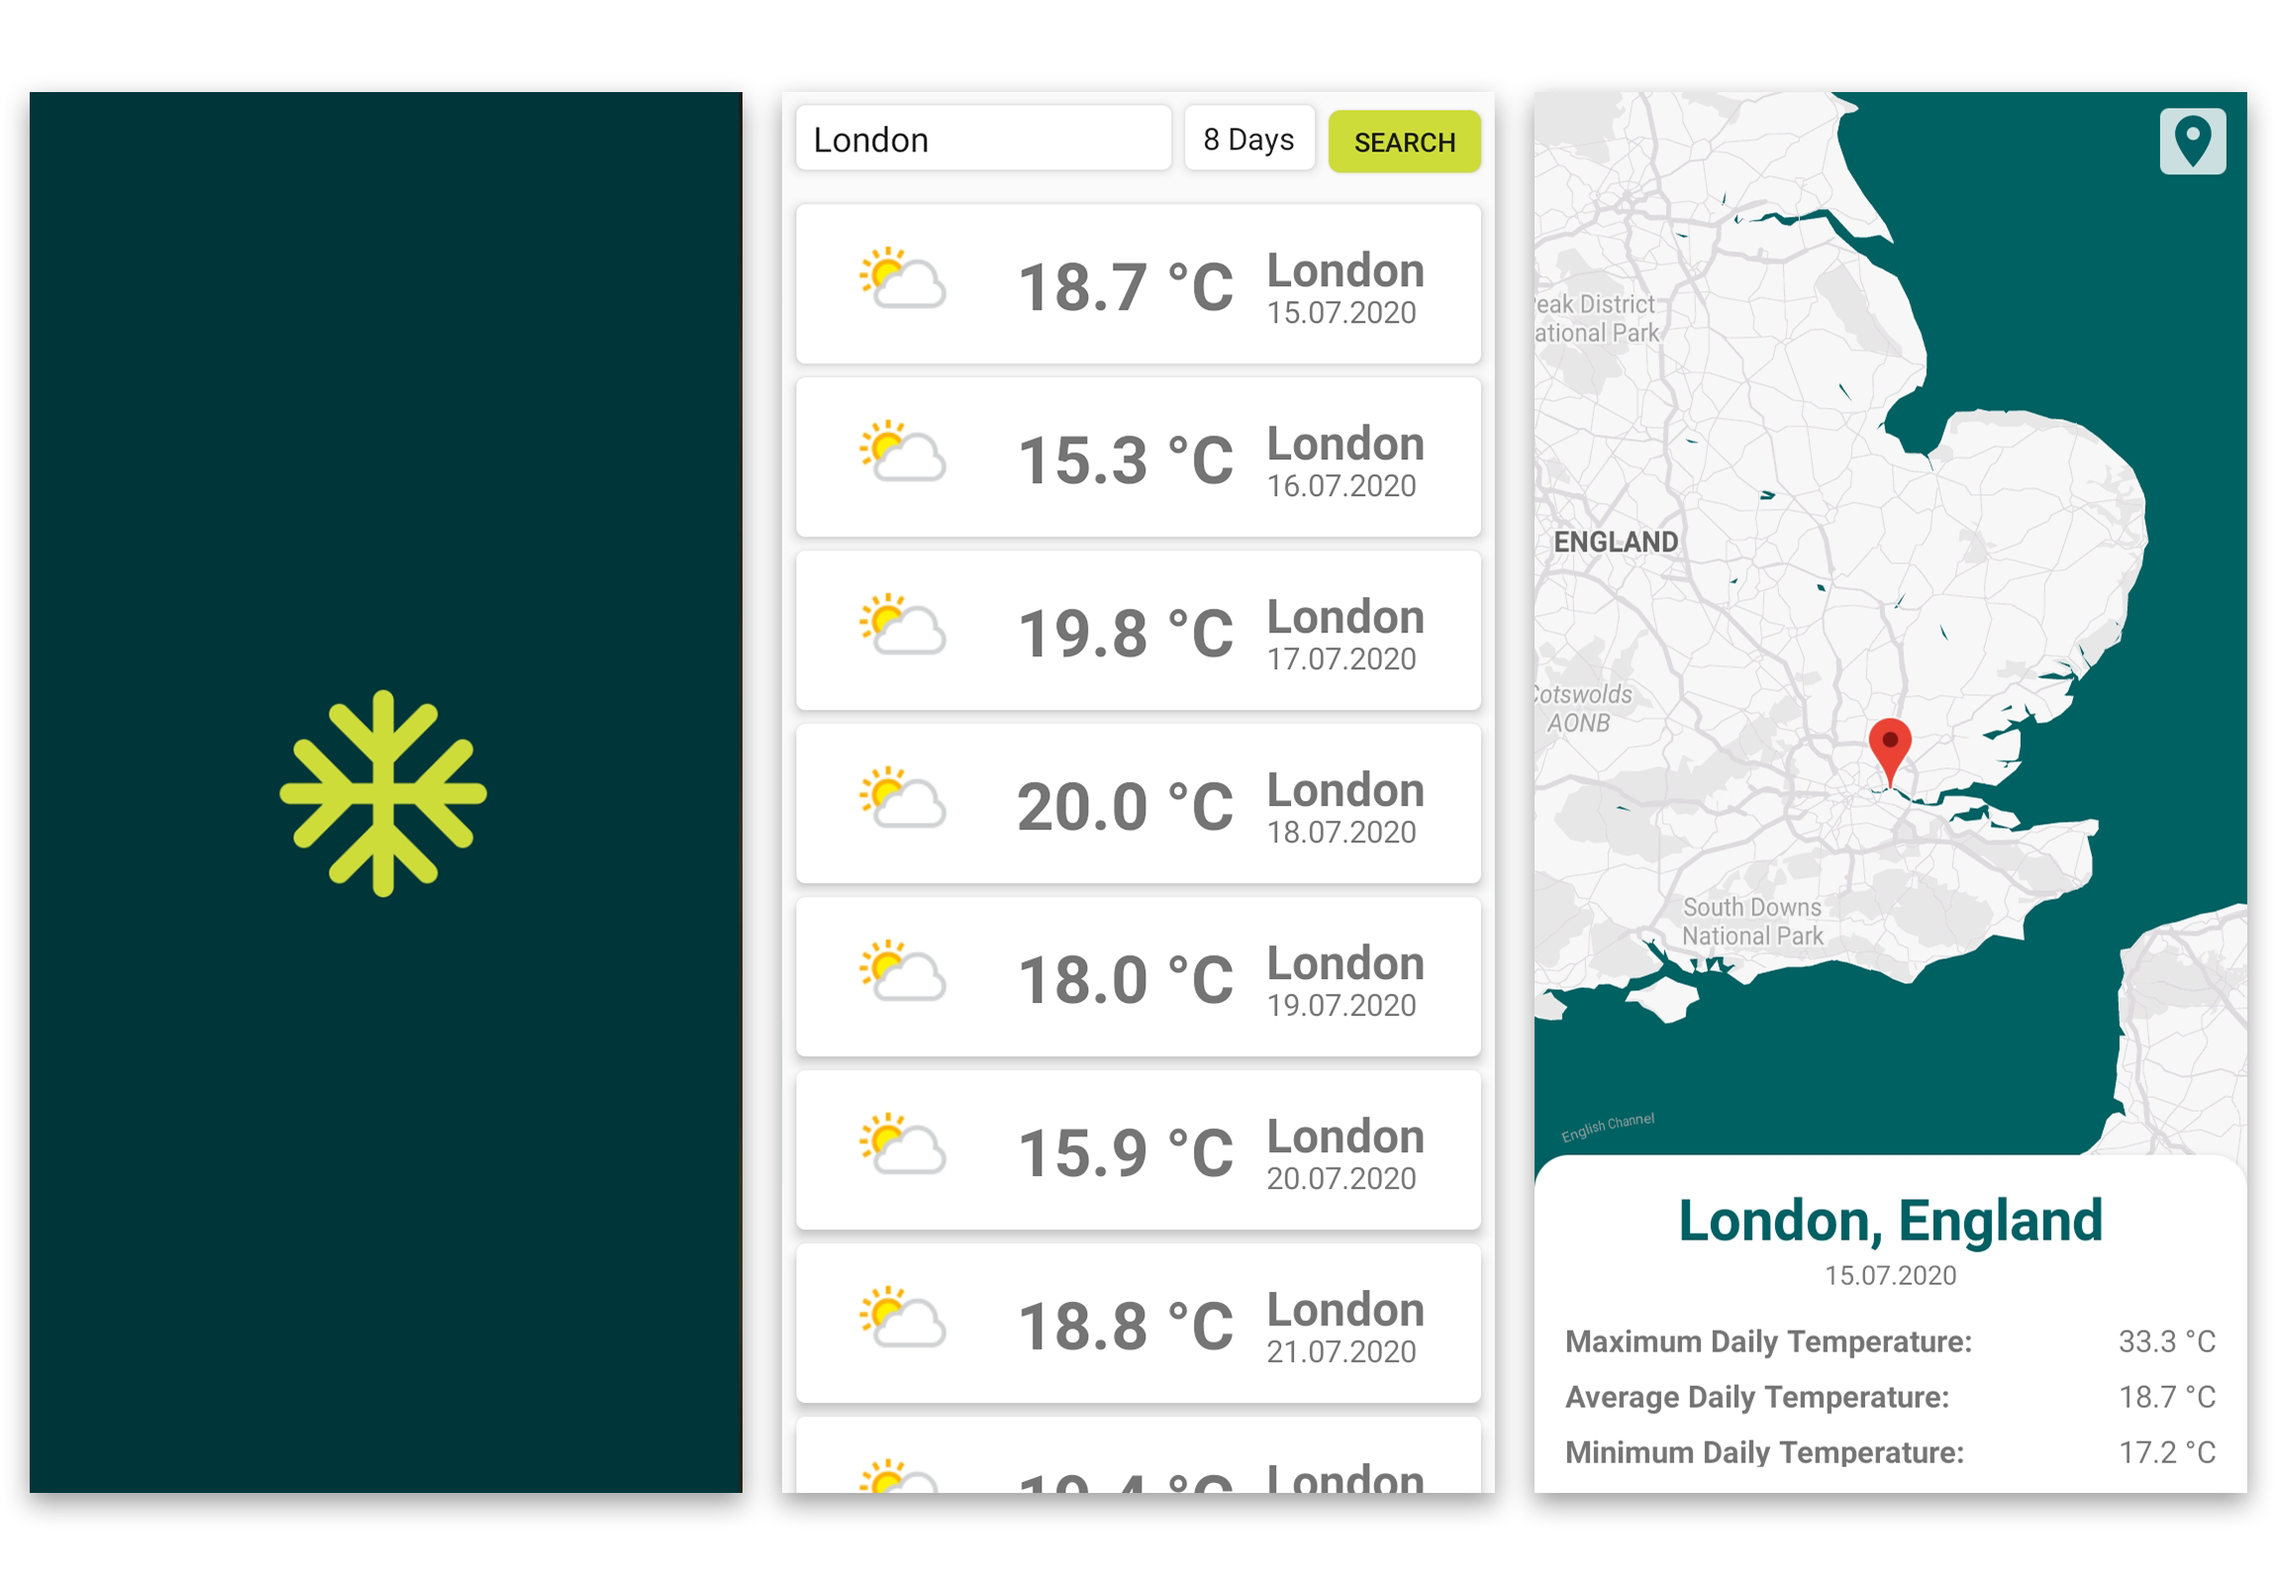
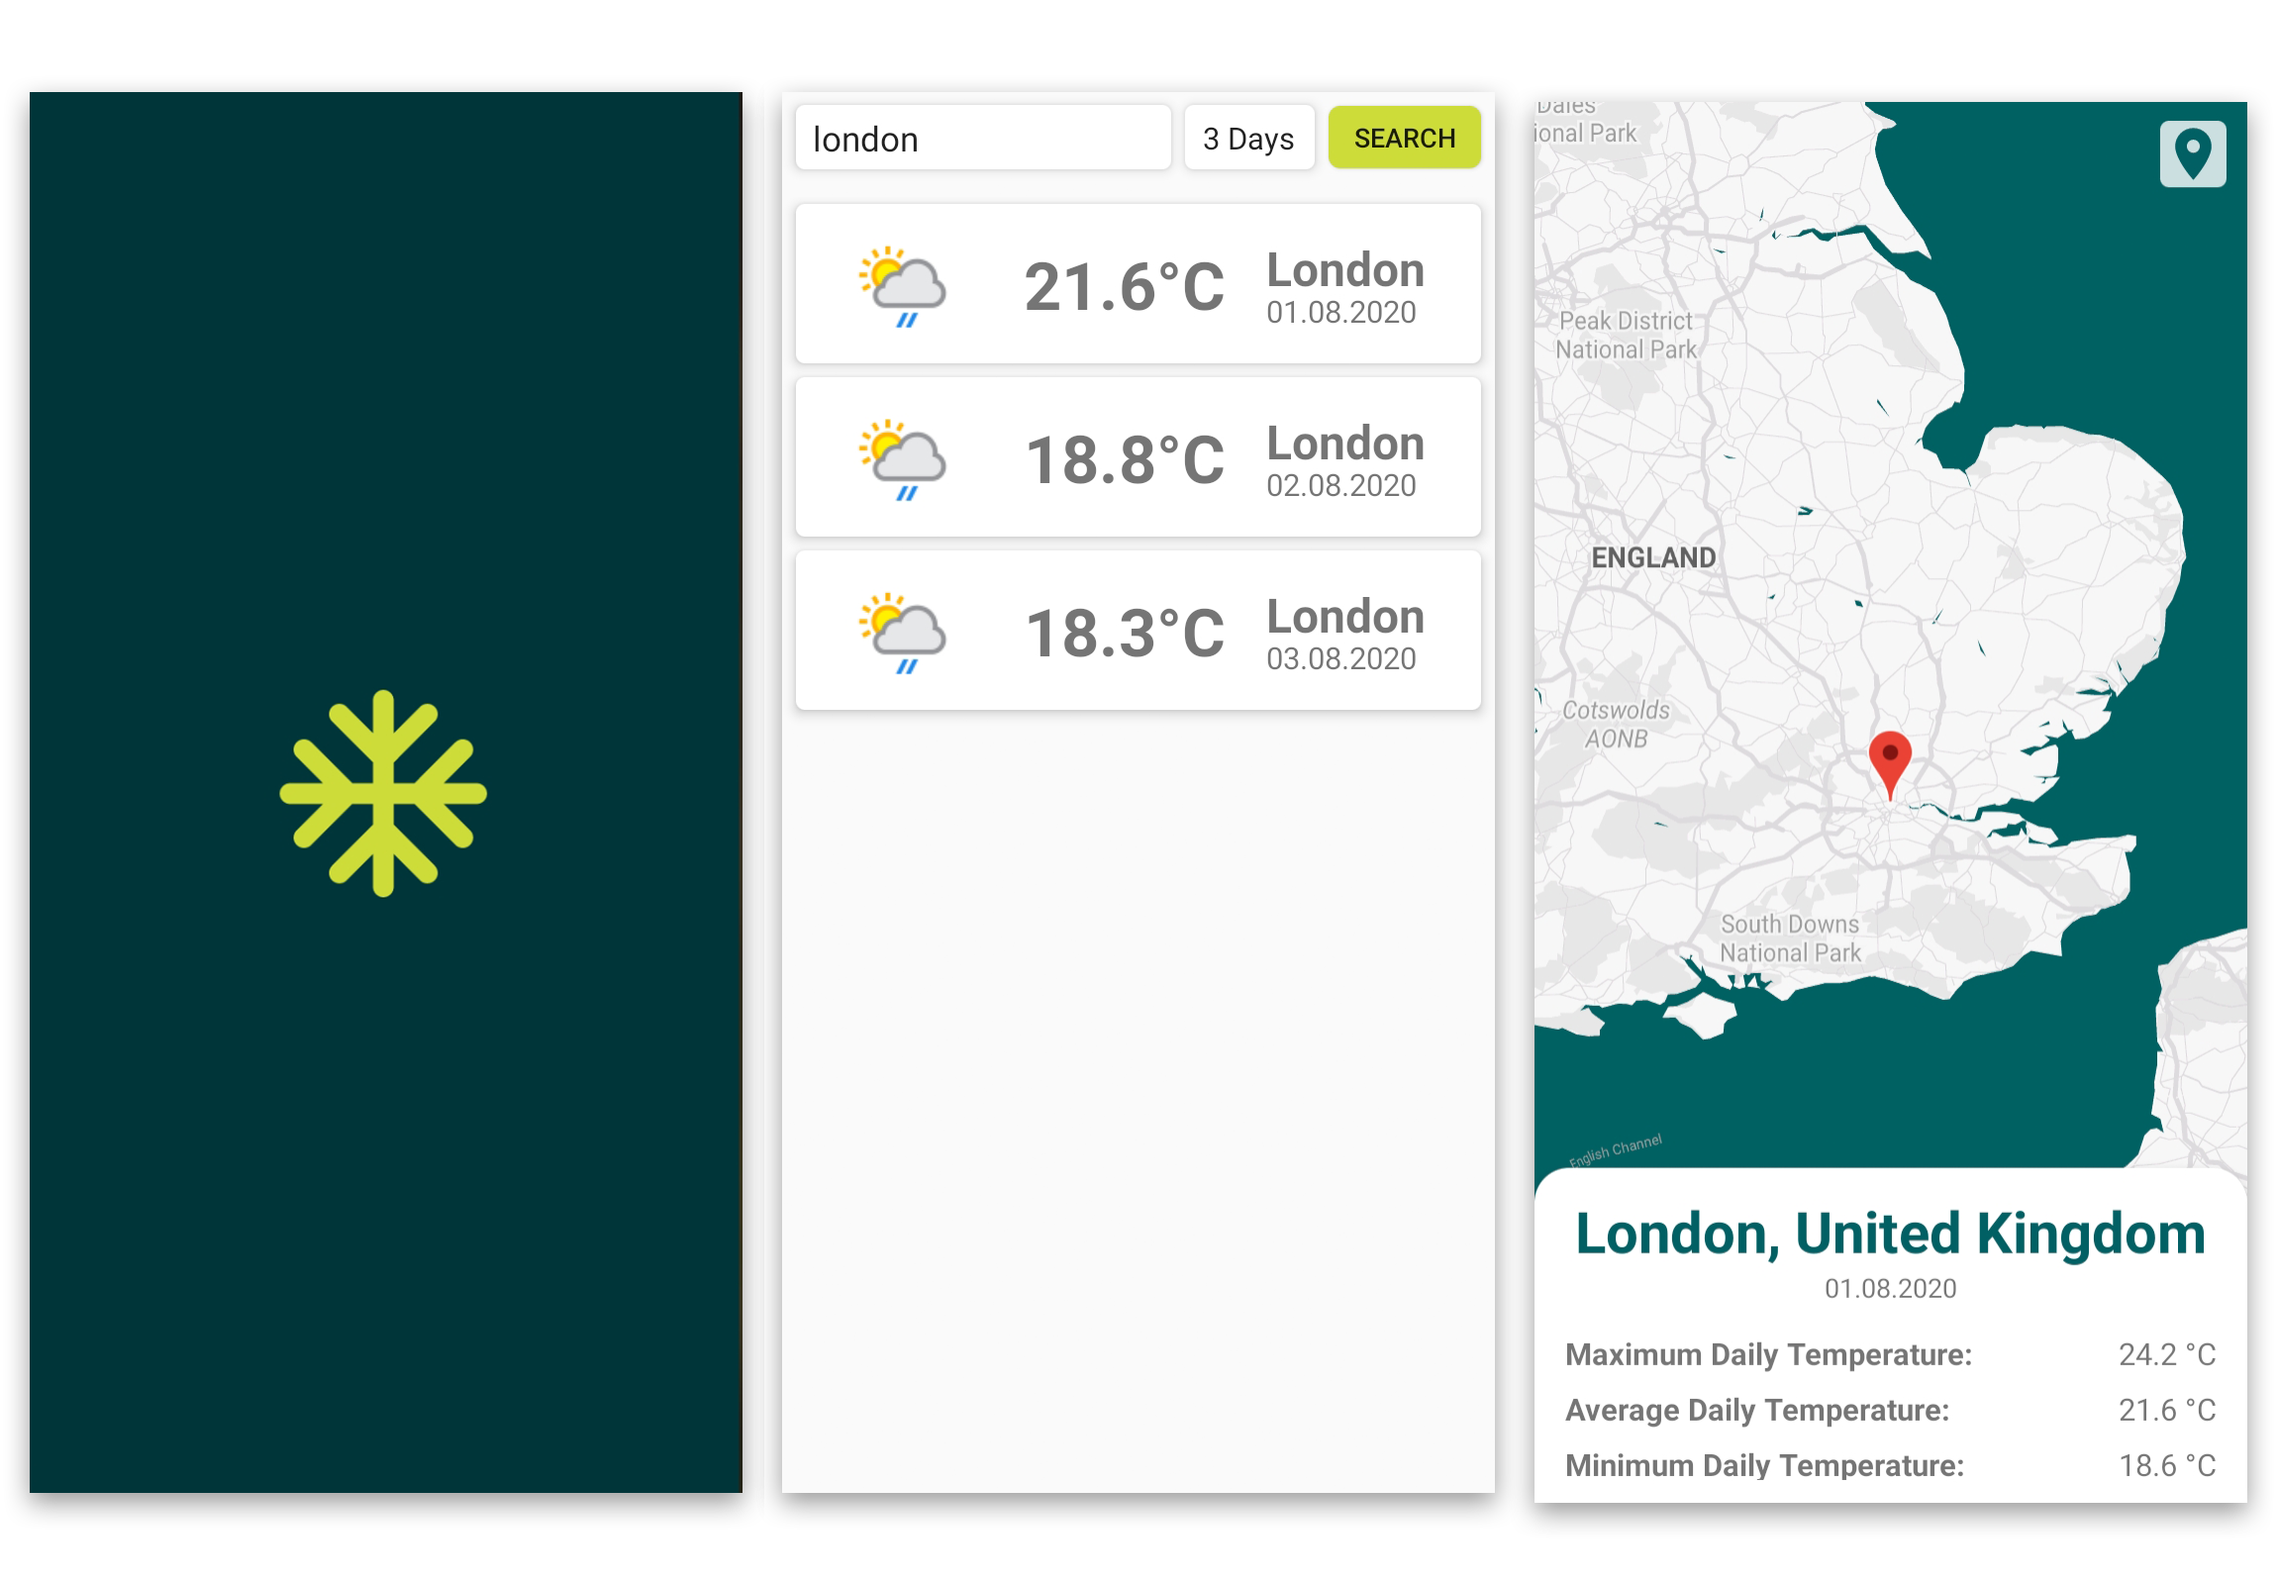
Application modified to work with the original API

diff --git a/MAD-P4/app/src/main/java/com/ns/mad_p4/presentation/view/recycler/viewholder/WeatherViewHolder.kt b/MAD-P4/app/src/main/java/com/ns/mad_p4/presentation/view/recycler/viewholder/WeatherViewHolder.kt
@@ -24,7 +24,7 @@ class WeatherViewHolder(
     fun bind(weatherUI: WeatherUI) {
 //        Picasso.get().load(weatherUI.icon).into(main_weather_item_Image_Iv)
         main_weather_item_Image_Iv.setImageResource(iconToDrawable(weatherUI.icon.substring(weatherUI.icon.length - 7, weatherUI.icon.length - 4).toInt()))
-        main_weather_item_Temperature_Tv.text = BigDecimal(weatherUI.avg_temp).setScale(1, RoundingMode.HALF_EVEN).toString() + " °C"
+        main_weather_item_Temperature_Tv.text = BigDecimal(weatherUI.avg_temp).setScale(1, RoundingMode.HALF_EVEN).toString() + "°C"
         main_weather_item_City_Tv.text = weatherUI.name
         main_weather_item_Date_Tv.text = SimpleDateFormat("dd.MM.yyyy").format(weatherUI.date)
     }

diff --git a/MAD-P4/app/src/main/java/com/ns/mad_p4/modules/core_module.kt b/MAD-P4/app/src/main/java/com/ns/mad_p4/modules/core_module.kt
@@ -5,6 +5,7 @@ import android.content.SharedPreferences
 import androidx.room.Room
 import com.facebook.stetho.okhttp3.StethoInterceptor
 import com.ns.mad_p4.BuildConfig
+import com.ns.mad_p4.R
 import org.koin.android.ext.koin.androidApplication
 import org.koin.android.ext.koin.androidContext
 import org.koin.dsl.module
@@ -53,7 +54,7 @@ fun createRetrofit(
     httpClient: OkHttpClient
 ): Retrofit {
     return Retrofit.Builder()
-        .baseUrl("https://rafweatherapi.herokuapp.com/v1/")
+        .baseUrl("https://api.weatherapi.com/v1/")
         .addCallAdapterFactory(RxJava2CallAdapterFactory.create())
         .addConverterFactory(MoshiConverterFactory.create(moshi).asLenient())
         .client(httpClient)

diff --git a/MAD-P4/app/src/main/java/com/ns/mad_p4/data/datasources/remote/WeatherService.kt b/MAD-P4/app/src/main/java/com/ns/mad_p4/data/datasources/remote/WeatherService.kt
@@ -1,5 +1,6 @@
 package com.ns.mad_p4.data.datasources.remote
 
+import com.ns.mad_p4.application.MADP4Application
 import com.ns.mad_p4.data.models.remote.WeatherAPIResponse
 import io.reactivex.Observable
 import retrofit2.http.GET
@@ -7,7 +8,10 @@ import retrofit2.http.Query
 
 interface WeatherService {
 
-    @GET("forecast.json")
-    fun getByCityName(@Query("q") city_name: String, @Query("days")  days: Int): Observable<WeatherAPIResponse>
+    @GET("forecast.json?key=${MADP4Application.WEATHER_API_KEY}")
+    fun getByCityName(
+        @Query("q") city_name: String,
+        @Query("days") days: Int
+    ): Observable<WeatherAPIResponse>
 
 }

diff --git a/MAD-P4/app/src/main/java/com/ns/mad_p4/data/datasources/local/database/WeatherDao.kt b/MAD-P4/app/src/main/java/com/ns/mad_p4/data/datasources/local/database/WeatherDao.kt
@@ -11,7 +11,7 @@ abstract class WeatherDao {
     @Insert( onConflict = OnConflictStrategy.REPLACE )
     abstract fun insertAll(weather: List<WeatherEntity>): Completable
 
-    @Query("SELECT * FROM weather WHERE name = :city_name AND date >= :date AND date <= :date_until ORDER BY date ASC")
+    @Query("SELECT * FROM weather WHERE name = :city_name COLLATE NOCASE AND date >= :date AND date <= :date_until ORDER BY date ASC")
     abstract fun getWeatherForCity(city_name: String, date: Long, date_until: Long): Observable<List<WeatherEntity>>
 
 }

diff --git a/MAD-P4/app/src/main/java/com/ns/mad_p4/application/MADP4Application.kt b/MAD-P4/app/src/main/java/com/ns/mad_p4/application/MADP4Application.kt
@@ -14,6 +14,10 @@ import timber.log.Timber
 
 class MADP4Application : Application() {
 
+    companion object {
+        const val WEATHER_API_KEY = "6d590680660b4c44ad5121505201107"
+    }
+
     override fun onCreate() {
         super.onCreate()
         init()

diff --git a/MAD-P4/README.md b/MAD-P4/README.md
@@ -5,7 +5,3 @@
 ## About
 
 This application is intended to show an understanding of the technologies we learned in the Mobile Application Development course, such as ViewModels, LiveData, persistence in database using Room, connection to Weather API using Retofit, connection to Google Maps API.
-
-## Note
-Currently, the [API](https://www.weatherapi.com/) intended for this project does not work, so the professor made a fake one that only returns random values for the cities: Paris, Moscow, Beijing, Rome and London, and in all other cases the latitude and
-longitude for Belgrade, and the name you provide in the request.
